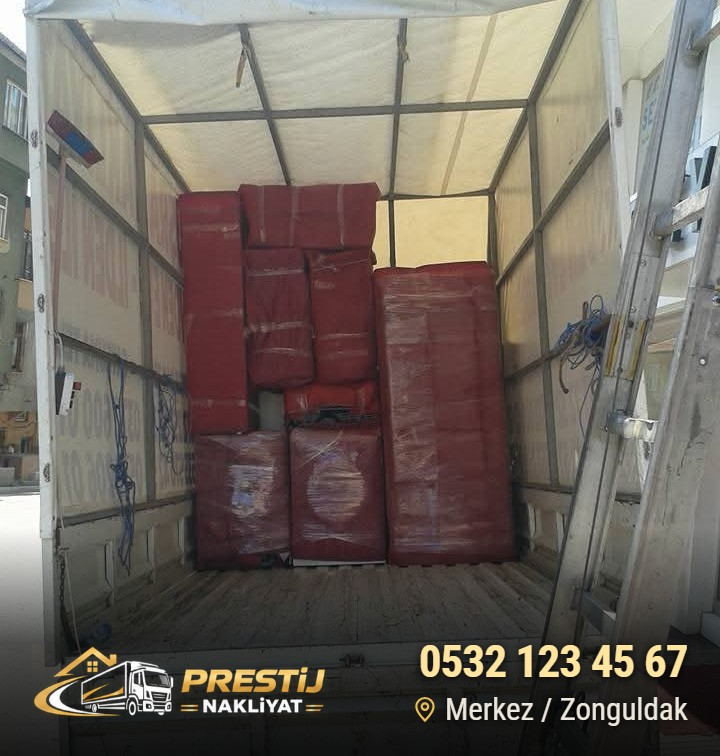
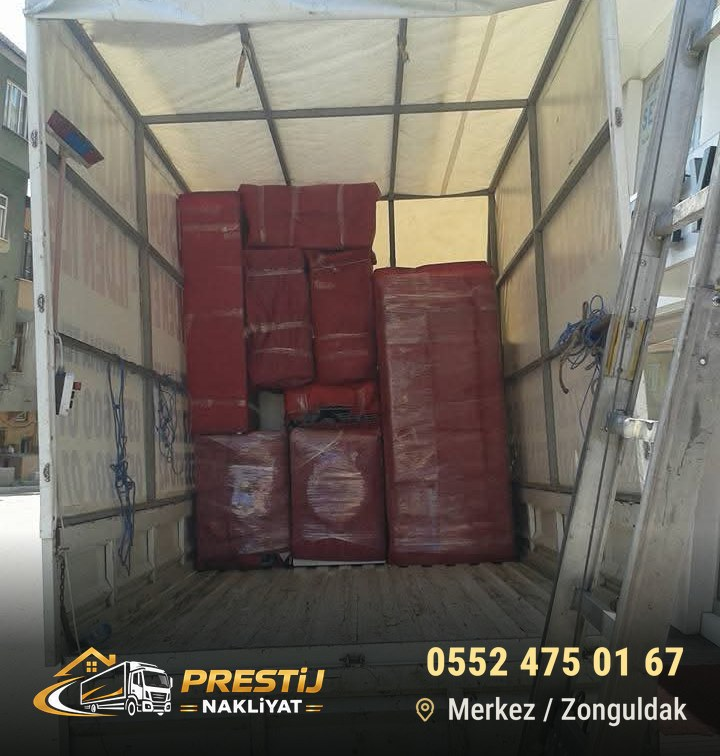
Re-render gallery bands with the new phone number and add station photo
- Add tools/make_gallery_bands.py: stamps the logo, phone and location
  band onto the original gallery photos (Pillow + numpy); the design
  was measured from the existing banded images
- Regenerate the three banded images with 0552 475 01 67
- Add the Fiat-at-fuel-station photo as the fourth gallery item on the
  home page and galeri.html; restore the four-column desktop grid
- Update README gallery notes, sitemap and asset cache version

Claude-Session: https://claude.ai/code/session_01NsQk3rrD1sas5sZLcVXrwZ

Changed region(s): [[0.5806, 0.8519, 0.9778, 0.9735], [0.0306, 0.8519, 0.4583, 0.9735]]

diff --git a/galeri.html b/galeri.html
@@ -31,17 +31,17 @@
   <link rel="icon" href="assets/favicon-48x48.png?v=20260927-7" type="image/png" sizes="48x48">
   <link rel="icon" href="favicon.png?v=20260927-7" type="image/png" sizes="512x512">
   <link rel="apple-touch-icon" href="assets/apple-touch-icon.png?v=20260927-7" sizes="180x180">
-  <script type="application/ld+json">{"@context":"https://schema.org","@graph":[{"@type":"MovingCompany","@id":"https://prestijevdenevenakliyat.com/#firma","name":"Prestij Nakliyat","alternateName":["Prestij Evden Eve Nakliyat","Prestij Nakliyat Zonguldak"],"url":"https://prestijevdenevenakliyat.com/","logo":{"@type":"ImageObject","url":"https://prestijevdenevenakliyat.com/assets/logo.png","width":600,"height":600},"image":"https://prestijevdenevenakliyat.com/assets/og-image.jpg","description":"Zonguldak merkez ve tüm ilçelerinde evden eve nakliyat, ofis taşımacılığı, paketleme, mobilya montajı ve asansörlü taşıma hizmeti veren nakliyat firması.","slogan":"Her adımda güvenle taşıyoruz","telephone":"+90-552-475-01-67","address":{"@type":"PostalAddress","streetAddress":"Hisararkası Mah. Merkez Evler Sok. No:3/6","addressLocality":"Kilimli","addressRegion":"Zonguldak","addressCountry":"TR"},"hasMap":"https://www.google.com/maps/search/?api=1&query=Hisararkas%C4%B1+Mah.+Merkez+Evler+Sok.+No%3A3%2F6+Kilimli+Zonguldak","openingHoursSpecification":[{"@type":"OpeningHoursSpecification","dayOfWeek":["Monday","Tuesday","Wednesday","Thursday","Friday","Saturday","Sunday"],"opens":"00:00","closes":"23:59"}],"areaServed":[{"@type":"AdministrativeArea","name":"Zonguldak"},{"@type":"City","name":"Karadeniz Ereğli, Zonguldak","url":"https://prestijevdenevenakliyat.com/eregli-evden-eve-nakliyat.html"},{"@type":"City","name":"Kozlu, Zonguldak","url":"https://prestijevdenevenakliyat.com/kozlu-evden-eve-nakliyat.html"},{"@type":"City","name":"Kilimli, Zonguldak","url":"https://prestijevdenevenakliyat.com/kilimli-evden-eve-nakliyat.html"},{"@type":"City","name":"Çaycuma, Zonguldak","url":"https://prestijevdenevenakliyat.com/caycuma-evden-eve-nakliyat.html"},{"@type":"City","name":"Devrek, Zonguldak","url":"https://prestijevdenevenakliyat.com/devrek-evden-eve-nakliyat.html"},{"@type":"City","name":"Gökçebey, Zonguldak","url":"https://prestijevdenevenakliyat.com/gokcebey-evden-eve-nakliyat.html"},{"@type":"City","name":"Alaplı, Zonguldak","url":"https://prestijevdenevenakliyat.com/alapli-evden-eve-nakliyat.html"}],"contactPoint":{"@type":"ContactPoint","telephone":"+90-552-475-01-67","contactType":"customer service","areaServed":"TR","availableLanguage":"Turkish","hoursAvailable":{"@type":"OpeningHoursSpecification","dayOfWeek":["Monday","Tuesday","Wednesday","Thursday","Friday","Saturday","Sunday"],"opens":"00:00","closes":"23:59"}},"knowsAbout":["Evden eve nakliyat","Ofis taşımacılığı","Mobilya montajı","Eşya paketleme","Asansörlü taşıma"],"hasOfferCatalog":{"@type":"OfferCatalog","name":"Nakliyat hizmetleri","itemListElement":[{"@type":"Offer","itemOffered":{"@type":"Service","name":"Evden Eve Nakliyat","description":"Eşyalarınız profesyonel ekibimizle güvenle yeni yuvanıza taşınır."}},{"@type":"Offer","itemOffered":{"@type":"Service","name":"Ofis Taşımacılığı","description":"İşinizi aksatmadan, hızlı ve planlı ofis taşıma hizmetleri."}},{"@type":"Offer","itemOffered":{"@type":"Service","name":"Mobilya Montajı","description":"Tüm mobilyalarınız uzman ekibimizce sökülür, taşınır ve montajı yapılır."}},{"@type":"Offer","itemOffered":{"@type":"Service","name":"Paketleme Hizmeti","description":"Eşyalarınız özel ambalaj malzemeleri ile güvenle paketlenir."}},{"@type":"Offer","itemOffered":{"@type":"Service","name":"Asansörlü Taşıma","description":"Yüksek katlarda bile hızlı, güvenli ve pratik taşıma çözümleri."}}]}},{"@type":"WebSite","@id":"https://prestijevdenevenakliyat.com/#site","url":"https://prestijevdenevenakliyat.com/","name":"Prestij Nakliyat","inLanguage":"tr-TR","publisher":{"@id":"https://prestijevdenevenakliyat.com/#firma"}},{"@type":["CollectionPage","ImageGallery"],"@id":"https://prestijevdenevenakliyat.com/galeri.html#sayfa","url":"https://prestijevdenevenakliyat.com/galeri.html","name":"Galeri – Taşımalarımızdan Kareler | Prestij Nakliyat Zonguldak","description":"Prestij Nakliyat galerisi: Zonguldak’taki evden eve nakliyat, paketleme ve taşıma işlerimizden gerçek fotoğraflar.","inLanguage":"tr-TR","isPartOf":{"@id":"https://prestijevdenevenakliyat.com/#site"},"about":{"@id":"https://prestijevdenevenakliyat.com/#firma"},"breadcrumb":{"@id":"https://prestijevdenevenakliyat.com/galeri.html#breadcrumb"},"image":[{"@type":"ImageObject","contentUrl":"https://prestijevdenevenakliyat.com/assets/gallery/fiat-nakliye-araci-bantli.jpg","width":529,"height":555,"caption":"Sokakta park halindeki beyaz Fiat kapalı kasa nakliye aracı; altta Prestij Nakliyat logosu, 0552 475 01 67 ve Merkez / Zonguldak yazısı","creator":{"@id":"https://prestijevdenevenakliyat.com/#firma"}},{"@type":"ImageObject","contentUrl":"https://prestijevdenevenakliyat.com/assets/gallery/arac-ici-paketleme-bantli.jpg","width":720,"height":756,"caption":"Nakliye aracının kasasına yerleştirilmiş kırmızı koruyucu ambalajlı eşyalar; altta Prestij Nakliyat logosu, 0552 475 01 67 ve Merkez / Zonguldak yazısı","creator":{"@id":"https://prestijevdenevenakliyat.com/#firma"}},{"@type":"ImageObject","contentUrl":"https://prestijevdenevenakliyat.com/assets/gallery/korumali-esyalar-bantli.jpg","width":720,"height":756,"caption":"Oda içinde taşınmaya hazırlanmış, koruyucu ambalaj ve streçle sarılmış eşyalar; altta Prestij Nakliyat logosu, 0552 475 01 67 ve Merkez / Zonguldak yazısı","creator":{"@id":"https://prestijevdenevenakliyat.com/#firma"}}]},{"@type":"BreadcrumbList","@id":"https://prestijevdenevenakliyat.com/galeri.html#breadcrumb","itemListElement":[{"@type":"ListItem","position":1,"name":"Ana Sayfa","item":"https://prestijevdenevenakliyat.com/"},{"@type":"ListItem","position":2,"name":"Galeri","item":"https://prestijevdenevenakliyat.com/galeri.html"}]}]}</script>
+  <script type="application/ld+json">{"@context":"https://schema.org","@graph":[{"@type":"MovingCompany","@id":"https://prestijevdenevenakliyat.com/#firma","name":"Prestij Nakliyat","alternateName":["Prestij Evden Eve Nakliyat","Prestij Nakliyat Zonguldak"],"url":"https://prestijevdenevenakliyat.com/","logo":{"@type":"ImageObject","url":"https://prestijevdenevenakliyat.com/assets/logo.png","width":600,"height":600},"image":"https://prestijevdenevenakliyat.com/assets/og-image.jpg","description":"Zonguldak merkez ve tüm ilçelerinde evden eve nakliyat, ofis taşımacılığı, paketleme, mobilya montajı ve asansörlü taşıma hizmeti veren nakliyat firması.","slogan":"Her adımda güvenle taşıyoruz","telephone":"+90-552-475-01-67","address":{"@type":"PostalAddress","streetAddress":"Hisararkası Mah. Merkez Evler Sok. No:3/6","addressLocality":"Kilimli","addressRegion":"Zonguldak","addressCountry":"TR"},"hasMap":"https://www.google.com/maps/search/?api=1&query=Hisararkas%C4%B1+Mah.+Merkez+Evler+Sok.+No%3A3%2F6+Kilimli+Zonguldak","openingHoursSpecification":[{"@type":"OpeningHoursSpecification","dayOfWeek":["Monday","Tuesday","Wednesday","Thursday","Friday","Saturday","Sunday"],"opens":"00:00","closes":"23:59"}],"areaServed":[{"@type":"AdministrativeArea","name":"Zonguldak"},{"@type":"City","name":"Karadeniz Ereğli, Zonguldak","url":"https://prestijevdenevenakliyat.com/eregli-evden-eve-nakliyat.html"},{"@type":"City","name":"Kozlu, Zonguldak","url":"https://prestijevdenevenakliyat.com/kozlu-evden-eve-nakliyat.html"},{"@type":"City","name":"Kilimli, Zonguldak","url":"https://prestijevdenevenakliyat.com/kilimli-evden-eve-nakliyat.html"},{"@type":"City","name":"Çaycuma, Zonguldak","url":"https://prestijevdenevenakliyat.com/caycuma-evden-eve-nakliyat.html"},{"@type":"City","name":"Devrek, Zonguldak","url":"https://prestijevdenevenakliyat.com/devrek-evden-eve-nakliyat.html"},{"@type":"City","name":"Gökçebey, Zonguldak","url":"https://prestijevdenevenakliyat.com/gokcebey-evden-eve-nakliyat.html"},{"@type":"City","name":"Alaplı, Zonguldak","url":"https://prestijevdenevenakliyat.com/alapli-evden-eve-nakliyat.html"}],"contactPoint":{"@type":"ContactPoint","telephone":"+90-552-475-01-67","contactType":"customer service","areaServed":"TR","availableLanguage":"Turkish","hoursAvailable":{"@type":"OpeningHoursSpecification","dayOfWeek":["Monday","Tuesday","Wednesday","Thursday","Friday","Saturday","Sunday"],"opens":"00:00","closes":"23:59"}},"knowsAbout":["Evden eve nakliyat","Ofis taşımacılığı","Mobilya montajı","Eşya paketleme","Asansörlü taşıma"],"hasOfferCatalog":{"@type":"OfferCatalog","name":"Nakliyat hizmetleri","itemListElement":[{"@type":"Offer","itemOffered":{"@type":"Service","name":"Evden Eve Nakliyat","description":"Eşyalarınız profesyonel ekibimizle güvenle yeni yuvanıza taşınır."}},{"@type":"Offer","itemOffered":{"@type":"Service","name":"Ofis Taşımacılığı","description":"İşinizi aksatmadan, hızlı ve planlı ofis taşıma hizmetleri."}},{"@type":"Offer","itemOffered":{"@type":"Service","name":"Mobilya Montajı","description":"Tüm mobilyalarınız uzman ekibimizce sökülür, taşınır ve montajı yapılır."}},{"@type":"Offer","itemOffered":{"@type":"Service","name":"Paketleme Hizmeti","description":"Eşyalarınız özel ambalaj malzemeleri ile güvenle paketlenir."}},{"@type":"Offer","itemOffered":{"@type":"Service","name":"Asansörlü Taşıma","description":"Yüksek katlarda bile hızlı, güvenli ve pratik taşıma çözümleri."}}]}},{"@type":"WebSite","@id":"https://prestijevdenevenakliyat.com/#site","url":"https://prestijevdenevenakliyat.com/","name":"Prestij Nakliyat","inLanguage":"tr-TR","publisher":{"@id":"https://prestijevdenevenakliyat.com/#firma"}},{"@type":["CollectionPage","ImageGallery"],"@id":"https://prestijevdenevenakliyat.com/galeri.html#sayfa","url":"https://prestijevdenevenakliyat.com/galeri.html","name":"Galeri – Taşımalarımızdan Kareler | Prestij Nakliyat Zonguldak","description":"Prestij Nakliyat galerisi: Zonguldak’taki evden eve nakliyat, paketleme ve taşıma işlerimizden gerçek fotoğraflar.","inLanguage":"tr-TR","isPartOf":{"@id":"https://prestijevdenevenakliyat.com/#site"},"about":{"@id":"https://prestijevdenevenakliyat.com/#firma"},"breadcrumb":{"@id":"https://prestijevdenevenakliyat.com/galeri.html#breadcrumb"},"image":[{"@type":"ImageObject","contentUrl":"https://prestijevdenevenakliyat.com/assets/gallery/fiat-nakliye-araci-bantli.jpg","width":529,"height":555,"caption":"Sokakta park halindeki beyaz Fiat kapalı kasa nakliye aracı; altta Prestij Nakliyat logosu, 0552 475 01 67 ve Merkez / Zonguldak yazısı","creator":{"@id":"https://prestijevdenevenakliyat.com/#firma"}},{"@type":"ImageObject","contentUrl":"https://prestijevdenevenakliyat.com/assets/gallery/arac-ici-paketleme-bantli.jpg","width":720,"height":756,"caption":"Nakliye aracının kasasına yerleştirilmiş kırmızı koruyucu ambalajlı eşyalar; altta Prestij Nakliyat logosu, 0552 475 01 67 ve Merkez / Zonguldak yazısı","creator":{"@id":"https://prestijevdenevenakliyat.com/#firma"}},{"@type":"ImageObject","contentUrl":"https://prestijevdenevenakliyat.com/assets/gallery/korumali-esyalar-bantli.jpg","width":720,"height":756,"caption":"Oda içinde taşınmaya hazırlanmış, koruyucu ambalaj ve streçle sarılmış eşyalar; altta Prestij Nakliyat logosu, 0552 475 01 67 ve Merkez / Zonguldak yazısı","creator":{"@id":"https://prestijevdenevenakliyat.com/#firma"}},{"@type":"ImageObject","contentUrl":"https://prestijevdenevenakliyat.com/assets/gallery/fiat-nakliye-araci-istasyon-bantli.jpg","width":1200,"height":1260,"caption":"Akaryakıt istasyonunda beyaz Fiat kapalı kasa nakliye aracı ve yanında ekip üyesi; altta Prestij Nakliyat logosu, 0552 475 01 67 ve Merkez / Zonguldak yazısı","creator":{"@id":"https://prestijevdenevenakliyat.com/#firma"}}]},{"@type":"BreadcrumbList","@id":"https://prestijevdenevenakliyat.com/galeri.html#breadcrumb","itemListElement":[{"@type":"ListItem","position":1,"name":"Ana Sayfa","item":"https://prestijevdenevenakliyat.com/"},{"@type":"ListItem","position":2,"name":"Galeri","item":"https://prestijevdenevenakliyat.com/galeri.html"}]}]}</script>
   <!-- seo:end -->
   <link rel="preload" href="assets/fonts/roboto-condensed-variable.woff2" as="font" type="font/woff2" crossorigin>
   <link rel="preload" href="assets/fonts/montserrat-variable.woff2" as="font" type="font/woff2" crossorigin>
-  <link rel="stylesheet" href="site.css?v=20260927-59">
+  <link rel="stylesheet" href="site.css?v=20260927-60">
   <link rel="preload" as="image" href="assets/opt/hero-coast-fiat-1280.webp" imagesrcset="assets/opt/hero-coast-fiat-960.webp 960w, assets/opt/hero-coast-fiat-1280.webp 1280w, assets/opt/hero-coast-fiat-1672.webp 1672w" imagesizes="(max-width: 650px) 176vw, 100vw" fetchpriority="high">
-  <script src="script.js?v=20260927-59" defer></script>
-  <script src="reveal.js?v=20260927-59" defer></script>
-  <script src="hero.js?v=20260927-59" defer></script>
-  <script src="services.js?v=20260927-59" defer></script>
-  <script src="gallery.js?v=20260927-59" defer></script>
+  <script src="script.js?v=20260927-60" defer></script>
+  <script src="reveal.js?v=20260927-60" defer></script>
+  <script src="hero.js?v=20260927-60" defer></script>
+  <script src="services.js?v=20260927-60" defer></script>
+  <script src="gallery.js?v=20260927-60" defer></script>
 </head>
 <body id="galeri-sayfasi" data-page="gallery">
   <header class="site-header">
@@ -152,9 +152,12 @@
         <figure class="gallery-card">
           <button class="gallery-photo-button" type="button" data-photo="2" aria-haspopup="dialog" aria-label="Koruyucu ambalajla sarılmış eşyaların fotoğrafını büyüt"><img src="assets/gallery/korumali-esyalar-bantli.jpg" width="720" height="756" alt="Oda içinde taşınmaya hazırlanmış, koruyucu ambalaj ve streçle sarılmış eşyalar; altta Prestij Nakliyat logosu, 0552 475 01 67 ve Merkez / Zonguldak yazısı" loading="lazy" decoding="async"><span class="gallery-enlarge" aria-hidden="true"><svg viewBox="0 0 24 24" aria-hidden="true"><path d="M3 9h10V4l9 8-9 8v-5H3Z" fill="currentColor"/></svg></span></button>
         </figure>
+        <figure class="gallery-card">
+          <button class="gallery-photo-button" type="button" data-photo="3" aria-haspopup="dialog" aria-label="Akaryakıt istasyonundaki beyaz Fiat nakliye aracının fotoğrafını büyüt"><img src="assets/gallery/fiat-nakliye-araci-istasyon-bantli.jpg" width="1200" height="1260" alt="Akaryakıt istasyonunda beyaz Fiat kapalı kasa nakliye aracı ve yanında ekip üyesi; altta Prestij Nakliyat logosu, 0552 475 01 67 ve Merkez / Zonguldak yazısı" loading="lazy" decoding="async"><span class="gallery-enlarge" aria-hidden="true"><svg viewBox="0 0 24 24" aria-hidden="true"><path d="M3 9h10V4l9 8-9 8v-5H3Z" fill="currentColor"/></svg></span></button>
+        </figure>
       </div>
       <dialog class="gallery-dialog" aria-label="Galeri fotoğrafı">
-        <div class="gallery-viewer-toolbar"><div class="gallery-viewer-heading"><span class="gallery-viewer-eyebrow">GALERİ</span><p class="gallery-caption"></p></div><span class="gallery-counter" aria-live="polite">1 / 3</span><button class="gallery-close" type="button" aria-label="Fotoğrafı kapat" autofocus>×</button></div>
+        <div class="gallery-viewer-toolbar"><div class="gallery-viewer-heading"><span class="gallery-viewer-eyebrow">GALERİ</span><p class="gallery-caption"></p></div><span class="gallery-counter" aria-live="polite">1 / 4</span><button class="gallery-close" type="button" aria-label="Fotoğrafı kapat" autofocus>×</button></div>
         <div class="gallery-viewer-image"><span class="gallery-viewer-photo"><img alt=""></span><button class="gallery-previous" type="button" aria-label="Önceki fotoğraf"><svg viewBox="0 0 24 24" aria-hidden="true"><path d="M3 9h10V4l9 8-9 8v-5H3Z" fill="currentColor"/></svg></button><button class="gallery-next" type="button" aria-label="Sonraki fotoğraf"><svg viewBox="0 0 24 24" aria-hidden="true"><path d="M3 9h10V4l9 8-9 8v-5H3Z" fill="currentColor"/></svg></button></div>
         <div class="gallery-thumbs" role="group" aria-label="Fotoğraf seçimi"></div>
       </dialog>

diff --git a/index.html b/index.html
@@ -35,15 +35,15 @@
   <!-- seo:end -->
   <link rel="preload" href="assets/fonts/roboto-condensed-variable.woff2" as="font" type="font/woff2" crossorigin>
   <link rel="preload" href="assets/fonts/montserrat-variable.woff2" as="font" type="font/woff2" crossorigin>
-  <link rel="stylesheet" href="site.css?v=20260927-59">
+  <link rel="stylesheet" href="site.css?v=20260927-60">
   <link rel="preload" as="image" href="assets/opt/hero-coast-fiat-1280.webp" imagesrcset="assets/opt/hero-coast-fiat-960.webp 960w, assets/opt/hero-coast-fiat-1280.webp 1280w, assets/opt/hero-coast-fiat-1672.webp 1672w" imagesizes="(max-width: 650px) 176vw, 100vw" fetchpriority="high">
-  <script src="script.js?v=20260927-59" defer></script>
-  <script src="reveal.js?v=20260927-59" defer></script>
-  <script src="hero.js?v=20260927-59" defer></script>
-  <script src="services.js?v=20260927-59" defer></script>
-  <script src="contact.js?v=20260927-59" defer></script>
-  <script src="gallery.js?v=20260927-59" defer></script>
-  <script src="maps.js?v=20260927-59" defer></script>
+  <script src="script.js?v=20260927-60" defer></script>
+  <script src="reveal.js?v=20260927-60" defer></script>
+  <script src="hero.js?v=20260927-60" defer></script>
+  <script src="services.js?v=20260927-60" defer></script>
+  <script src="contact.js?v=20260927-60" defer></script>
+  <script src="gallery.js?v=20260927-60" defer></script>
+  <script src="maps.js?v=20260927-60" defer></script>
 </head>
 <body id="ana-sayfa">
   <header class="site-header">
@@ -330,10 +330,13 @@
         <figure class="gallery-card">
           <button class="gallery-photo-button" type="button" data-photo="2" aria-haspopup="dialog" aria-label="Koruyucu ambalajla sarılmış eşyaların fotoğrafını büyüt"><img src="assets/gallery/korumali-esyalar-bantli.jpg" width="720" height="756" alt="Oda içinde taşınmaya hazırlanmış, koruyucu ambalaj ve streçle sarılmış eşyalar; altta Prestij Nakliyat logosu, 0552 475 01 67 ve Merkez / Zonguldak yazısı" loading="lazy" decoding="async"><span class="gallery-enlarge" aria-hidden="true"><svg viewBox="0 0 24 24" aria-hidden="true"><path d="M3 9h10V4l9 8-9 8v-5H3Z" fill="currentColor"/></svg></span></button>
         </figure>
+        <figure class="gallery-card">
+          <button class="gallery-photo-button" type="button" data-photo="3" aria-haspopup="dialog" aria-label="Akaryakıt istasyonundaki beyaz Fiat nakliye aracının fotoğrafını büyüt"><img src="assets/gallery/fiat-nakliye-araci-istasyon-bantli.jpg" width="1200" height="1260" alt="Akaryakıt istasyonunda beyaz Fiat kapalı kasa nakliye aracı ve yanında ekip üyesi; altta Prestij Nakliyat logosu, 0552 475 01 67 ve Merkez / Zonguldak yazısı" loading="lazy" decoding="async"><span class="gallery-enlarge" aria-hidden="true"><svg viewBox="0 0 24 24" aria-hidden="true"><path d="M3 9h10V4l9 8-9 8v-5H3Z" fill="currentColor"/></svg></span></button>
+        </figure>
       </div>
       <a class="gallery-more" href="galeri.html">Tüm Galeriyi Gör <svg viewBox="0 0 24 24" aria-hidden="true"><path d="M3 9h10V4l9 8-9 8v-5H3Z" fill="currentColor"/></svg></a>
       <dialog class="gallery-dialog" aria-label="Galeri fotoğrafı">
-        <div class="gallery-viewer-toolbar"><div class="gallery-viewer-heading"><span class="gallery-viewer-eyebrow">GALERİ</span><p class="gallery-caption"></p></div><span class="gallery-counter" aria-live="polite">1 / 3</span><button class="gallery-close" type="button" aria-label="Fotoğrafı kapat" autofocus>×</button></div>
+        <div class="gallery-viewer-toolbar"><div class="gallery-viewer-heading"><span class="gallery-viewer-eyebrow">GALERİ</span><p class="gallery-caption"></p></div><span class="gallery-counter" aria-live="polite">1 / 4</span><button class="gallery-close" type="button" aria-label="Fotoğrafı kapat" autofocus>×</button></div>
         <div class="gallery-viewer-image"><span class="gallery-viewer-photo"><img alt=""></span><button class="gallery-previous" type="button" aria-label="Önceki fotoğraf"><svg viewBox="0 0 24 24" aria-hidden="true"><path d="M3 9h10V4l9 8-9 8v-5H3Z" fill="currentColor"/></svg></button><button class="gallery-next" type="button" aria-label="Sonraki fotoğraf"><svg viewBox="0 0 24 24" aria-hidden="true"><path d="M3 9h10V4l9 8-9 8v-5H3Z" fill="currentColor"/></svg></button></div>
         <div class="gallery-thumbs" role="group" aria-label="Fotoğraf seçimi"></div>
       </dialog>

diff --git a/site.css b/site.css
@@ -337,7 +337,7 @@ html:has(.service-dialog[open]){overflow:hidden}
 /* gallery.css */
 .gallery{position:relative;max-width:1983px;margin:0 auto;padding:35px 4.2% 40px;background:radial-gradient(ellipse at bottom,#5a3d0917,transparent 65%),#040504;border-bottom:1px solid #8e6d2d;scroll-margin-top:24px}
 .gallery-heading{margin-bottom:23px}.gallery-heading>p{font:700 13px/1.2 Arial,sans-serif;letter-spacing:2px;color:#f2c25f;margin:0 0 9px}.gallery-heading :is(h1,h2){font-family:Montserrat,'Montserrat Fallback',Arial,sans-serif;font-size:clamp(28px,2.2vw,40px);line-height:1.2;font-weight:800;letter-spacing:-.7px;margin:0;color:#f8f8f8}
-.gallery-grid{display:grid;grid-template-columns:repeat(3,minmax(0,1fr));gap:20px}.gallery-card{min-width:0;margin:0;overflow:hidden;border:1px solid #a57d2b;border-radius:13px;background:#050604;box-shadow:0 5px 20px #c28a1712;transition:border-color .25s,box-shadow .25s}.gallery-card:hover,.gallery-card:focus-within{border-color:#f6d47b;box-shadow:0 4px 23px #dca62830}
+.gallery-grid{display:grid;grid-template-columns:repeat(4,minmax(0,1fr));gap:20px}.gallery-card{min-width:0;margin:0;overflow:hidden;border:1px solid #a57d2b;border-radius:13px;background:#050604;box-shadow:0 5px 20px #c28a1712;transition:border-color .25s,box-shadow .25s}.gallery-card:hover,.gallery-card:focus-within{border-color:#f6d47b;box-shadow:0 4px 23px #dca62830}
 .gallery-photo-button{position:relative;display:block;width:100%;aspect-ratio:4/3;overflow:hidden;padding:0;border:0;background:#171915;cursor:zoom-in}.gallery-photo-button img{display:block;width:100%;height:100%;object-fit:cover;object-position:center;transition:transform .45s}@media(hover:hover) and (pointer:fine){.gallery-photo-button:hover img{transform:scale(1.035)}} .gallery-enlarge{position:absolute;right:11px;top:11px;display:grid;place-items:center;width:31px;height:31px;border:1px solid #edc76990;border-radius:50%;background:#090a07b3;color:#ffdb84;font:22px Arial,sans-serif;pointer-events:none}
 .gallery-band{position:relative;display:grid;grid-template-columns:1fr auto;column-gap:9px;row-gap:7px;align-items:center;padding:15px 17px;background:linear-gradient(115deg,#191305,#050604 42%,#181307);border-top:2px solid #d1a33e}.gallery-band:after{content:'';position:absolute;top:-2px;left:14%;width:40%;height:2px;background:linear-gradient(90deg,transparent,#fff0b8,transparent);box-shadow:0 0 11px #e8b84060;pointer-events:none}.gallery-band>strong{grid-column:1/-1;font:700 16px/1.2 'Roboto Condensed','Roboto Condensed Fallback',Arial,sans-serif;letter-spacing:.8px;color:#f8d77c}.gallery-band a{font-size:17px;font-weight:600;color:#f0eeea;text-decoration:none;white-space:nowrap}.gallery-band a:hover{color:#ffdb7c}.gallery-location{display:flex;align-items:center;gap:3px;font-size:14px;color:#d6c89f;white-space:nowrap}.gallery-location svg{width:12px;height:15px;color:#edbf52;flex:none}
 .gallery-dialog::backdrop{background:#000e;backdrop-filter:blur(6px)}.gallery-close{width:40px;height:40px;display:grid;place-items:center;background:#151308;border:1px solid #9c7b34;border-radius:50%;color:#ffdb7c;font-size:28px;cursor:pointer}.gallery-previous,.gallery-next{position:absolute;top:50%;transform:translateY(-50%);display:grid;place-items:center;width:44px;height:52px;border:1px solid #ad8b42;border-radius:8px;background:#080905bf;color:#ffdb80;font:34px Arial,sans-serif;cursor:pointer}.gallery-previous{left:13px}.gallery-next{right:13px}html:has(.gallery-dialog[open]){overflow:hidden}

diff --git a/gallery.css b/gallery.css
@@ -1,6 +1,6 @@
 .gallery{position:relative;max-width:1983px;margin:0 auto;padding:35px 4.2% 40px;background:radial-gradient(ellipse at bottom,#5a3d0917,transparent 65%),#040504;border-bottom:1px solid #8e6d2d;scroll-margin-top:24px}
 .gallery-heading{margin-bottom:23px}.gallery-heading>p{font:700 13px/1.2 Arial,sans-serif;letter-spacing:2px;color:#f2c25f;margin:0 0 9px}.gallery-heading :is(h1,h2){font-family:Montserrat,'Montserrat Fallback',Arial,sans-serif;font-size:clamp(28px,2.2vw,40px);line-height:1.2;font-weight:800;letter-spacing:-.7px;margin:0;color:#f8f8f8}
-.gallery-grid{display:grid;grid-template-columns:repeat(3,minmax(0,1fr));gap:20px}.gallery-card{min-width:0;margin:0;overflow:hidden;border:1px solid #a57d2b;border-radius:13px;background:#050604;box-shadow:0 5px 20px #c28a1712;transition:border-color .25s,box-shadow .25s}.gallery-card:hover,.gallery-card:focus-within{border-color:#f6d47b;box-shadow:0 4px 23px #dca62830}
+.gallery-grid{display:grid;grid-template-columns:repeat(4,minmax(0,1fr));gap:20px}.gallery-card{min-width:0;margin:0;overflow:hidden;border:1px solid #a57d2b;border-radius:13px;background:#050604;box-shadow:0 5px 20px #c28a1712;transition:border-color .25s,box-shadow .25s}.gallery-card:hover,.gallery-card:focus-within{border-color:#f6d47b;box-shadow:0 4px 23px #dca62830}
 .gallery-photo-button{position:relative;display:block;width:100%;aspect-ratio:4/3;overflow:hidden;padding:0;border:0;background:#171915;cursor:zoom-in}.gallery-photo-button img{display:block;width:100%;height:100%;object-fit:cover;object-position:center;transition:transform .45s}@media(hover:hover) and (pointer:fine){.gallery-photo-button:hover img{transform:scale(1.035)}} /* dokunmatikte :hover takılı kalıp görseli büyütmesin */.gallery-enlarge{position:absolute;right:11px;top:11px;display:grid;place-items:center;width:31px;height:31px;border:1px solid #edc76990;border-radius:50%;background:#090a07b3;color:#ffdb84;font:22px Arial,sans-serif;pointer-events:none}
 .gallery-band{position:relative;display:grid;grid-template-columns:1fr auto;column-gap:9px;row-gap:7px;align-items:center;padding:15px 17px;background:linear-gradient(115deg,#191305,#050604 42%,#181307);border-top:2px solid #d1a33e}.gallery-band:after{content:'';position:absolute;top:-2px;left:14%;width:40%;height:2px;background:linear-gradient(90deg,transparent,#fff0b8,transparent);box-shadow:0 0 11px #e8b84060;pointer-events:none}.gallery-band>strong{grid-column:1/-1;font:700 16px/1.2 'Roboto Condensed','Roboto Condensed Fallback',Arial,sans-serif;letter-spacing:.8px;color:#f8d77c}.gallery-band a{font-size:17px;font-weight:600;color:#f0eeea;text-decoration:none;white-space:nowrap}.gallery-band a:hover{color:#ffdb7c}.gallery-location{display:flex;align-items:center;gap:3px;font-size:14px;color:#d6c89f;white-space:nowrap}.gallery-location svg{width:12px;height:15px;color:#edbf52;flex:none}
 .gallery-dialog::backdrop{background:#000e;backdrop-filter:blur(6px)}.gallery-close{width:40px;height:40px;display:grid;place-items:center;background:#151308;border:1px solid #9c7b34;border-radius:50%;color:#ffdb7c;font-size:28px;cursor:pointer}.gallery-previous,.gallery-next{position:absolute;top:50%;transform:translateY(-50%);display:grid;place-items:center;width:44px;height:52px;border:1px solid #ad8b42;border-radius:8px;background:#080905bf;color:#ffdb80;font:34px Arial,sans-serif;cursor:pointer}.gallery-previous{left:13px}.gallery-next{right:13px}html:has(.gallery-dialog[open]){overflow:hidden}

diff --git a/alapli-evden-eve-nakliyat.html b/alapli-evden-eve-nakliyat.html
@@ -35,11 +35,11 @@
   <!-- seo:end -->
   <link rel="preload" href="assets/fonts/roboto-condensed-variable.woff2" as="font" type="font/woff2" crossorigin>
   <link rel="preload" href="assets/fonts/montserrat-variable.woff2" as="font" type="font/woff2" crossorigin>
-  <link rel="stylesheet" href="site.css?v=20260927-59">
+  <link rel="stylesheet" href="site.css?v=20260927-60">
   <link rel="preload" as="image" href="assets/opt/hero-coast-fiat-1280.webp" imagesrcset="assets/opt/hero-coast-fiat-960.webp 960w, assets/opt/hero-coast-fiat-1280.webp 1280w, assets/opt/hero-coast-fiat-1672.webp 1672w" imagesizes="(max-width: 650px) 176vw, 100vw" fetchpriority="high">
-  <script src="script.js?v=20260927-59" defer></script>
-  <script src="reveal.js?v=20260927-59" defer></script>
-  <script src="services.js?v=20260927-59" defer></script>
+  <script src="script.js?v=20260927-60" defer></script>
+  <script src="reveal.js?v=20260927-60" defer></script>
+  <script src="services.js?v=20260927-60" defer></script>
 </head>
 <body id="ana-sayfa" data-page="district">
   <!-- Bu dosya tools/build_districts.py ile üretilir; doğrudan düzenlemeyin. -->

diff --git a/caycuma-evden-eve-nakliyat.html b/caycuma-evden-eve-nakliyat.html
@@ -35,11 +35,11 @@
   <!-- seo:end -->
   <link rel="preload" href="assets/fonts/roboto-condensed-variable.woff2" as="font" type="font/woff2" crossorigin>
   <link rel="preload" href="assets/fonts/montserrat-variable.woff2" as="font" type="font/woff2" crossorigin>
-  <link rel="stylesheet" href="site.css?v=20260927-59">
+  <link rel="stylesheet" href="site.css?v=20260927-60">
   <link rel="preload" as="image" href="assets/opt/hero-coast-fiat-1280.webp" imagesrcset="assets/opt/hero-coast-fiat-960.webp 960w, assets/opt/hero-coast-fiat-1280.webp 1280w, assets/opt/hero-coast-fiat-1672.webp 1672w" imagesizes="(max-width: 650px) 176vw, 100vw" fetchpriority="high">
-  <script src="script.js?v=20260927-59" defer></script>
-  <script src="reveal.js?v=20260927-59" defer></script>
-  <script src="services.js?v=20260927-59" defer></script>
+  <script src="script.js?v=20260927-60" defer></script>
+  <script src="reveal.js?v=20260927-60" defer></script>
+  <script src="services.js?v=20260927-60" defer></script>
 </head>
 <body id="ana-sayfa" data-page="district">
   <!-- Bu dosya tools/build_districts.py ile üretilir; doğrudan düzenlemeyin. -->

diff --git a/devrek-evden-eve-nakliyat.html b/devrek-evden-eve-nakliyat.html
@@ -35,11 +35,11 @@
   <!-- seo:end -->
   <link rel="preload" href="assets/fonts/roboto-condensed-variable.woff2" as="font" type="font/woff2" crossorigin>
   <link rel="preload" href="assets/fonts/montserrat-variable.woff2" as="font" type="font/woff2" crossorigin>
-  <link rel="stylesheet" href="site.css?v=20260927-59">
+  <link rel="stylesheet" href="site.css?v=20260927-60">
   <link rel="preload" as="image" href="assets/opt/hero-coast-fiat-1280.webp" imagesrcset="assets/opt/hero-coast-fiat-960.webp 960w, assets/opt/hero-coast-fiat-1280.webp 1280w, assets/opt/hero-coast-fiat-1672.webp 1672w" imagesizes="(max-width: 650px) 176vw, 100vw" fetchpriority="high">
-  <script src="script.js?v=20260927-59" defer></script>
-  <script src="reveal.js?v=20260927-59" defer></script>
-  <script src="services.js?v=20260927-59" defer></script>
+  <script src="script.js?v=20260927-60" defer></script>
+  <script src="reveal.js?v=20260927-60" defer></script>
+  <script src="services.js?v=20260927-60" defer></script>
 </head>
 <body id="ana-sayfa" data-page="district">
   <!-- Bu dosya tools/build_districts.py ile üretilir; doğrudan düzenlemeyin. -->

diff --git a/eregli-evden-eve-nakliyat.html b/eregli-evden-eve-nakliyat.html
@@ -35,11 +35,11 @@
   <!-- seo:end -->
   <link rel="preload" href="assets/fonts/roboto-condensed-variable.woff2" as="font" type="font/woff2" crossorigin>
   <link rel="preload" href="assets/fonts/montserrat-variable.woff2" as="font" type="font/woff2" crossorigin>
-  <link rel="stylesheet" href="site.css?v=20260927-59">
+  <link rel="stylesheet" href="site.css?v=20260927-60">
   <link rel="preload" as="image" href="assets/opt/hero-coast-fiat-1280.webp" imagesrcset="assets/opt/hero-coast-fiat-960.webp 960w, assets/opt/hero-coast-fiat-1280.webp 1280w, assets/opt/hero-coast-fiat-1672.webp 1672w" imagesizes="(max-width: 650px) 176vw, 100vw" fetchpriority="high">
-  <script src="script.js?v=20260927-59" defer></script>
-  <script src="reveal.js?v=20260927-59" defer></script>
-  <script src="services.js?v=20260927-59" defer></script>
+  <script src="script.js?v=20260927-60" defer></script>
+  <script src="reveal.js?v=20260927-60" defer></script>
+  <script src="services.js?v=20260927-60" defer></script>
 </head>
 <body id="ana-sayfa" data-page="district">
   <!-- Bu dosya tools/build_districts.py ile üretilir; doğrudan düzenlemeyin. -->

diff --git a/gokcebey-evden-eve-nakliyat.html b/gokcebey-evden-eve-nakliyat.html
@@ -35,11 +35,11 @@
   <!-- seo:end -->
   <link rel="preload" href="assets/fonts/roboto-condensed-variable.woff2" as="font" type="font/woff2" crossorigin>
   <link rel="preload" href="assets/fonts/montserrat-variable.woff2" as="font" type="font/woff2" crossorigin>
-  <link rel="stylesheet" href="site.css?v=20260927-59">
+  <link rel="stylesheet" href="site.css?v=20260927-60">
   <link rel="preload" as="image" href="assets/opt/hero-coast-fiat-1280.webp" imagesrcset="assets/opt/hero-coast-fiat-960.webp 960w, assets/opt/hero-coast-fiat-1280.webp 1280w, assets/opt/hero-coast-fiat-1672.webp 1672w" imagesizes="(max-width: 650px) 176vw, 100vw" fetchpriority="high">
-  <script src="script.js?v=20260927-59" defer></script>
-  <script src="reveal.js?v=20260927-59" defer></script>
-  <script src="services.js?v=20260927-59" defer></script>
+  <script src="script.js?v=20260927-60" defer></script>
+  <script src="reveal.js?v=20260927-60" defer></script>
+  <script src="services.js?v=20260927-60" defer></script>
 </head>
 <body id="ana-sayfa" data-page="district">
   <!-- Bu dosya tools/build_districts.py ile üretilir; doğrudan düzenlemeyin. -->

diff --git a/kilimli-evden-eve-nakliyat.html b/kilimli-evden-eve-nakliyat.html
@@ -35,11 +35,11 @@
   <!-- seo:end -->
   <link rel="preload" href="assets/fonts/roboto-condensed-variable.woff2" as="font" type="font/woff2" crossorigin>
   <link rel="preload" href="assets/fonts/montserrat-variable.woff2" as="font" type="font/woff2" crossorigin>
-  <link rel="stylesheet" href="site.css?v=20260927-59">
+  <link rel="stylesheet" href="site.css?v=20260927-60">
   <link rel="preload" as="image" href="assets/opt/hero-coast-fiat-1280.webp" imagesrcset="assets/opt/hero-coast-fiat-960.webp 960w, assets/opt/hero-coast-fiat-1280.webp 1280w, assets/opt/hero-coast-fiat-1672.webp 1672w" imagesizes="(max-width: 650px) 176vw, 100vw" fetchpriority="high">
-  <script src="script.js?v=20260927-59" defer></script>
-  <script src="reveal.js?v=20260927-59" defer></script>
-  <script src="services.js?v=20260927-59" defer></script>
+  <script src="script.js?v=20260927-60" defer></script>
+  <script src="reveal.js?v=20260927-60" defer></script>
+  <script src="services.js?v=20260927-60" defer></script>
 </head>
 <body id="ana-sayfa" data-page="district">
   <!-- Bu dosya tools/build_districts.py ile üretilir; doğrudan düzenlemeyin. -->

diff --git a/kozlu-evden-eve-nakliyat.html b/kozlu-evden-eve-nakliyat.html
@@ -35,11 +35,11 @@
   <!-- seo:end -->
   <link rel="preload" href="assets/fonts/roboto-condensed-variable.woff2" as="font" type="font/woff2" crossorigin>
   <link rel="preload" href="assets/fonts/montserrat-variable.woff2" as="font" type="font/woff2" crossorigin>
-  <link rel="stylesheet" href="site.css?v=20260927-59">
+  <link rel="stylesheet" href="site.css?v=20260927-60">
   <link rel="preload" as="image" href="assets/opt/hero-coast-fiat-1280.webp" imagesrcset="assets/opt/hero-coast-fiat-960.webp 960w, assets/opt/hero-coast-fiat-1280.webp 1280w, assets/opt/hero-coast-fiat-1672.webp 1672w" imagesizes="(max-width: 650px) 176vw, 100vw" fetchpriority="high">
-  <script src="script.js?v=20260927-59" defer></script>
-  <script src="reveal.js?v=20260927-59" defer></script>
-  <script src="services.js?v=20260927-59" defer></script>
+  <script src="script.js?v=20260927-60" defer></script>
+  <script src="reveal.js?v=20260927-60" defer></script>
+  <script src="services.js?v=20260927-60" defer></script>
 </head>
 <body id="ana-sayfa" data-page="district">
   <!-- Bu dosya tools/build_districts.py ile üretilir; doğrudan düzenlemeyin. -->

diff --git a/tools/make_gallery_bands.py b/tools/make_gallery_bands.py
@@ -1,0 +1,147 @@
+"""Galeri fotoğraflarına Prestij Nakliyat alt bandını (logo, telefon, konum) basar.
+
+Kullanım (proje kökünden):  python tools/make_gallery_bands.py
+
+- Kaynak: assets/gallery/<ad>.jpeg (orijinal fotoğraf, değiştirilmez)
+- Çıktı:  assets/gallery/<ad>-bantli.jpg
+- Tasarım 720 px genişlikli bir kart üzerinde ölçülmüştür; her çıktı kendi genişliğine göre ölçeklenir.
+- Telefon değişirse PHONE değerini güncelleyip betiği yeniden çalıştırın.
+Gereksinim: Pillow, numpy.
+"""
+from pathlib import Path
+
+import numpy as np
+from PIL import Image, ImageDraw, ImageFont
+
+ROOT = Path(__file__).resolve().parent.parent
+GALLERY = ROOT / "assets" / "gallery"
+FONT = ROOT / "assets" / "fonts" / "roboto-condensed-variable.ttf"
+LOGO = ROOT / "assets" / "header-reference.png"
+LOGO_BOX = (55, 447, 488, 555)  # Sitedeki logo görüntü alanı (viewBox="55 447 433 108")
+
+PHONE = "0552 475 01 67"
+LOCATION = "Merkez / Zonguldak"
+
+# Kart oranı yaklaşık 4 / 4.2 (refinements.css .gallery-photo-button).
+# (kaynak, çıktı boyutu, kırpma: kaynağın solundan/üstünden piksel; None = ortala)
+PHOTOS = [
+    ("fiat-nakliye-araci", (529, 556), (103, 0)),
+    ("arac-ici-paketleme", (720, 756), (0, 102)),
+    ("korumali-esyalar", (720, 756), (0, 102)),
+    ("fiat-nakliye-araci-istasyon", (1200, 1260), (0, 110)),
+]
+
+# 720 x 756 tasarım ölçüleri (px)
+W, H = 720, 756
+GRADIENT = [(530, 0.0), (645, 0.72), (756, 0.93)]  # (y, opaklık)
+BAND_COLOR = np.array([7, 9, 7], float)
+LOGO_X, LOGO_Y, LOGO_W = 31.3, 645.0, 296.2
+PHONE_RIGHT, PHONE_TOP, PHONE_INK_H, PHONE_COLOR, PHONE_WEIGHT, PHONE_TRACK = 682, 647, 29, (253, 228, 147), 850, 0.78
+LOC_RIGHT, LOC_TOP, LOC_INK_H, LOC_COLOR, LOC_WEIGHT, LOC_TRACK = 686, 697, 29, (232, 229, 221), 500, 0
+PIN_X, PIN_Y, PIN_W, PIN_H, PIN_COLOR = 415, 697, 20, 25, (214, 184, 112)
+SS = 4  # kenar yumuşatma için süper örnekleme
+
+
+def font(size, weight):
+    f = ImageFont.truetype(str(FONT), size)
+    f.set_variation_by_axes([weight])
+    return f
+
+
+def fit_font(text, ink_h, weight, scale):
+    """Mürekkep yüksekliği ink_h * scale olacak yazı boyutunu bulur (SS ölçeğinde)."""
+    target = ink_h * scale * SS
+    size = target
+    for _ in range(6):
+        l, t, r, b = font(round(size), weight).getbbox(text)
+        size *= target / (b - t)
+    return font(round(size), weight)
+
+
+def draw_text(text, f, track):
+    """Harf aralıklı metni kendi mürekkep kutusuna kırpılmış maske olarak çizer."""
+    size = f.size
+    mask = Image.new("L", (round(len(text) * (size + track) + size * 2), size * 3), 0)
+    d = ImageDraw.Draw(mask)
+    x = size
+    for ch in text:
+        d.text((x, size), ch, font=f, fill=255)
+        x += f.getlength(ch) + track
+    return mask.crop(mask.getbbox())
+
+
+def crop(photo, size, offset):
+    """Kaynağı çıktı oranında kırpar ve çıktı boyutuna ölçekler."""
+    w, h = photo.size
+    out_w, out_h = size
+    scale = min(w / out_w, h / out_h)
+    cw, ch = round(out_w * scale), round(out_h * scale)
+    x = (w - cw) // 2 if offset is None else min(offset[0], w - cw)
+    y = (h - ch) // 2 if offset is None else min(offset[1], h - ch)
+    return photo.crop((x, y, x + cw, y + ch)).resize(size, Image.LANCZOS)
+
+
+def band(img):
+    out_w, out_h = img.size
+    k = out_w / W
+    a = np.asarray(img).astype(float)
+
+    # Alt geçiş
+    ys = np.arange(out_h) / k
+    alpha = np.interp(ys, [y for y, _ in GRADIENT], [o for _, o in GRADIENT])[:, None, None]
+    a = a * (1 - alpha) + BAND_COLOR * alpha
+
+    # Logo (siyah zemin, koyu banda "lighten" ile oturur)
+    logo = Image.open(LOGO).convert("RGB").crop(LOGO_BOX)
+    lw = round(LOGO_W * k)
+    lh = round(lw * logo.height / logo.width)
+    logo = np.asarray(logo.resize((lw, lh), Image.LANCZOS)).astype(float)
+    x0, y0 = round(LOGO_X * k), round(LOGO_Y * k)
+    region = a[y0:y0 + lh, x0:x0 + lw]
+    a[y0:y0 + lh, x0:x0 + lw] = np.maximum(region, logo[:region.shape[0], :region.shape[1]])
+
+    # Yazılar ve konum simgesi süper örneklenmiş maskeye çizilir
+    layers = []
+    for text, right, top, ink_h, color, weight, track in (
+        (PHONE, PHONE_RIGHT, PHONE_TOP, PHONE_INK_H, PHONE_COLOR, PHONE_WEIGHT, PHONE_TRACK),
+        (LOCATION, LOC_RIGHT, LOC_TOP, LOC_INK_H, LOC_COLOR, LOC_WEIGHT, LOC_TRACK),
+    ):
+        f = fit_font(text, ink_h, weight, k)
+        ink = draw_text(text, f, track * k * SS)
+        mask = Image.new("L", (out_w * SS, out_h * SS), 0)
+        mask.paste(ink, (round((right + 1) * k * SS) - ink.width, round(top * k * SS)))
+        layers.append((mask, color))
+
+    pin = Image.new("L", (out_w * SS, out_h * SS), 0)
+    d = ImageDraw.Draw(pin)
+    px, py, pw, ph = PIN_X * k * SS, PIN_Y * k * SS, PIN_W * k * SS, PIN_H * k * SS
+    stroke = max(1, round(2.2 * k * SS))
+    cx, r = px + pw / 2, pw / 2 - stroke / 2
+    cy = py + r + stroke / 2
+    tip = (cx, py + ph - stroke / 2)
+    # Damla biçimli iğne: üst yay + uca inen iki kenar
+    d.arc((cx - r, cy - r, cx + r, cy + r), 150, 30, fill=255, width=stroke)
+    for ang in (150, 30):
+        rad = np.radians(ang)
+        d.line(((cx + r * np.cos(rad), cy + r * np.sin(rad)), tip), fill=255, width=stroke)
+    ir = pw * 0.2
+    d.ellipse((cx - ir, cy - ir, cx + ir, cy + ir), outline=255, width=stroke)
+    layers.append((pin, PIN_COLOR))
+
+    for mask, color in layers:
+        m = np.asarray(mask.resize((out_w, out_h), Image.LANCZOS)).astype(float)[..., None] / 255
+        a = a * (1 - m) + np.array(color, float) * m
+
+    return Image.fromarray(np.clip(a, 0, 255).round().astype(np.uint8))
+
+
+def main():
+    for name, size, offset in PHOTOS:
+        src = Image.open(GALLERY / f"{name}.jpeg").convert("RGB")
+        out = band(crop(src, size, offset))
+        out.save(GALLERY / f"{name}-bantli.jpg", quality=88, optimize=True, progressive=True)
+        print(f"{name}-bantli.jpg {out.size[0]}x{out.size[1]}")
+
+
+if __name__ == "__main__":
+    main()
